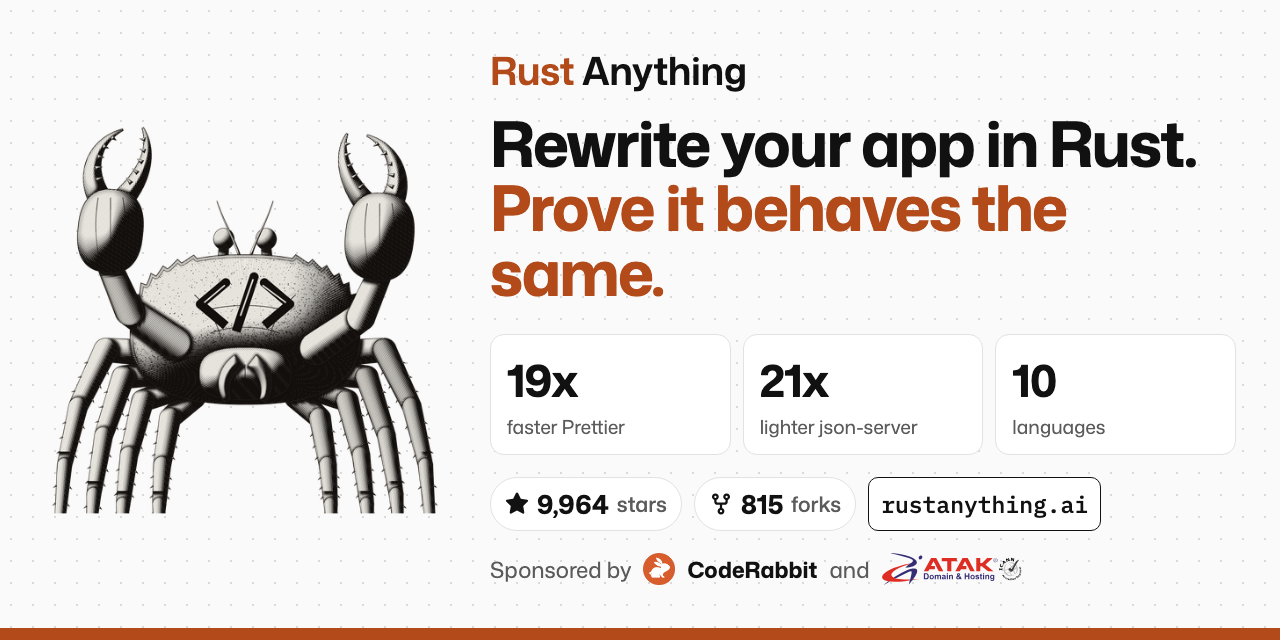
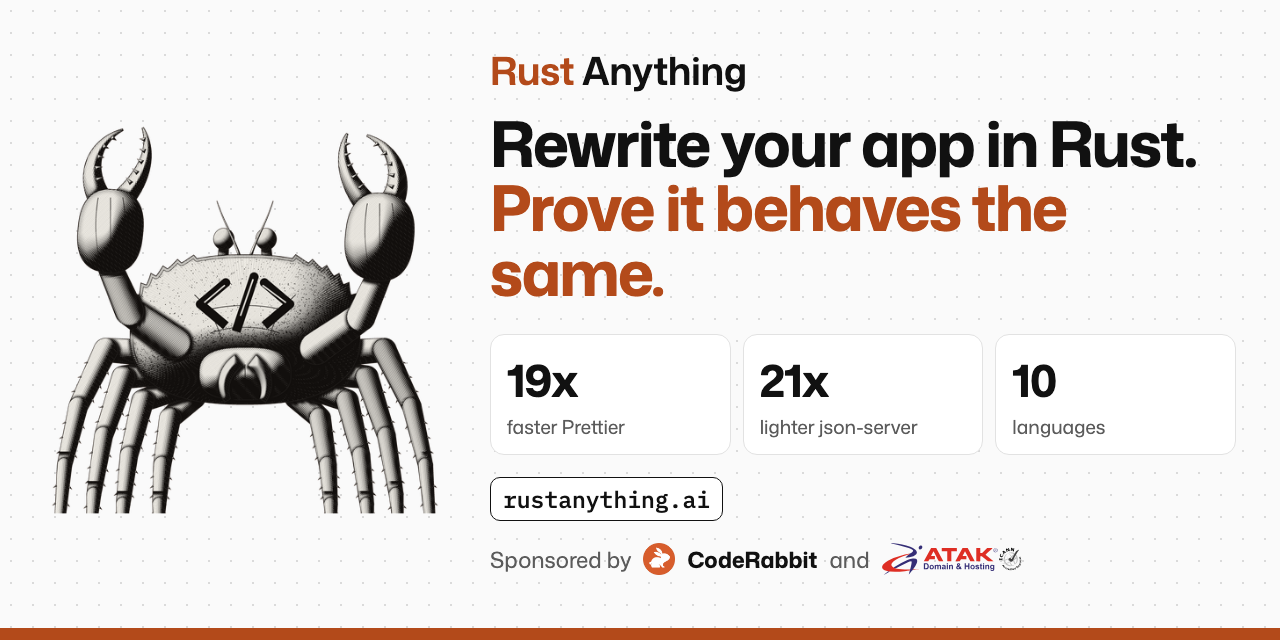
Social preview: drop the star and fork counts

Changed region(s): [[0.375, 0.8438, 0.8125, 0.9375], [0.375, 0.75, 0.6562, 0.8125], [0.6875, 0.7812, 0.875, 0.8125]]

diff --git a/docs/assets/social.html b/docs/assets/social.html
@@ -1,5 +1,5 @@
 <!doctype html>
-<!-- GitHub social preview (1280x640, upload in Settings > Social preview). Render with `sh scripts/social-preview.sh`, which fills in the current star and fork counts. -->
+<!-- GitHub social preview (1280x640, upload in Settings > Social preview). Render with `sh scripts/social-preview.sh`. -->
 <html lang="en"><head><meta charset="utf-8"><title>Rust Anything social preview</title>
 <style>
   @font-face { font-family: Mona; src: url("../../website/node_modules/@fontsource-variable/mona-sans/files/mona-sans-latin-wdth-normal.woff2") format("woff2"); font-weight: 200 900; }
@@ -27,10 +27,6 @@
   .stat b { display: block; font-size: 44px; font-weight: 700; letter-spacing: -0.02em; }
   .stat small { display: block; margin-top: 4px; font-size: 19px; line-height: 1.3; color: #5b5b5b; }
   .gh { display: flex; gap: 12px; margin-top: 22px; }
-  .pill { display: inline-flex; align-items: center; gap: 8px; padding: 8px 14px; border-radius: 999px; background: #fff;
-          border: 1.5px solid #e2e2e2; font-size: 26px; font-weight: 700; }
-  .pill svg { width: 24px; height: 24px; fill: #111; }
-  .pill small { font-size: 21px; font-weight: 500; color: #5b5b5b; }
   .langs { margin-top: 18px; font-size: 18px; color: #5b5b5b; }
   .foot { display: flex; align-items: center; gap: 12px; margin-top: 22px; font-size: 22px; color: #5b5b5b; }
   .foot img { height: 32px; vertical-align: middle; }
@@ -47,8 +43,6 @@
       <div class="stat"><b>10</b><small>languages</small></div>
     </div>
     <div class="gh">
-      <span class="pill"><svg viewBox="0 0 16 16"><path d="M8 .25a.75.75 0 0 1 .673.418l1.882 3.815 4.21.612a.75.75 0 0 1 .416 1.279l-3.046 2.97.719 4.192a.751.751 0 0 1-1.088.791L8 12.347l-3.766 1.98a.75.75 0 0 1-1.088-.79l.72-4.194L.818 6.374a.75.75 0 0 1 .416-1.28l4.21-.611L7.327.668A.75.75 0 0 1 8 .25Z"/></svg>{{stars}} <small>stars</small></span>
-      <span class="pill"><svg viewBox="0 0 16 16"><path d="M5 5.372v.878c0 .414.336.75.75.75h4.5a.75.75 0 0 0 .75-.75v-.878a2.25 2.25 0 1 1 1.5 0v.878a2.25 2.25 0 0 1-2.25 2.25h-1.5v2.128a2.251 2.251 0 1 1-1.5 0V8.5h-1.5A2.25 2.25 0 0 1 3.5 6.25v-.878a2.25 2.25 0 1 1 1.5 0ZM5 3.25a.75.75 0 1 0-1.5 0 .75.75 0 0 0 1.5 0Zm6.75.75a.75.75 0 1 0 0-1.5.75.75 0 0 0 0 1.5Zm-3 8.75a.75.75 0 1 0-1.5 0 .75.75 0 0 0 1.5 0Z"/></svg>{{forks}} <small>forks</small></span>
       <span class="url">rustanything.ai</span>
     </div>
     <div class="foot">Sponsored by <img src="brands/coderabbit.png" alt=""> <b style="color:#111">CodeRabbit</b> and <img src="sponsors/atak-domain.svg" alt="Atak Domain"></div>
